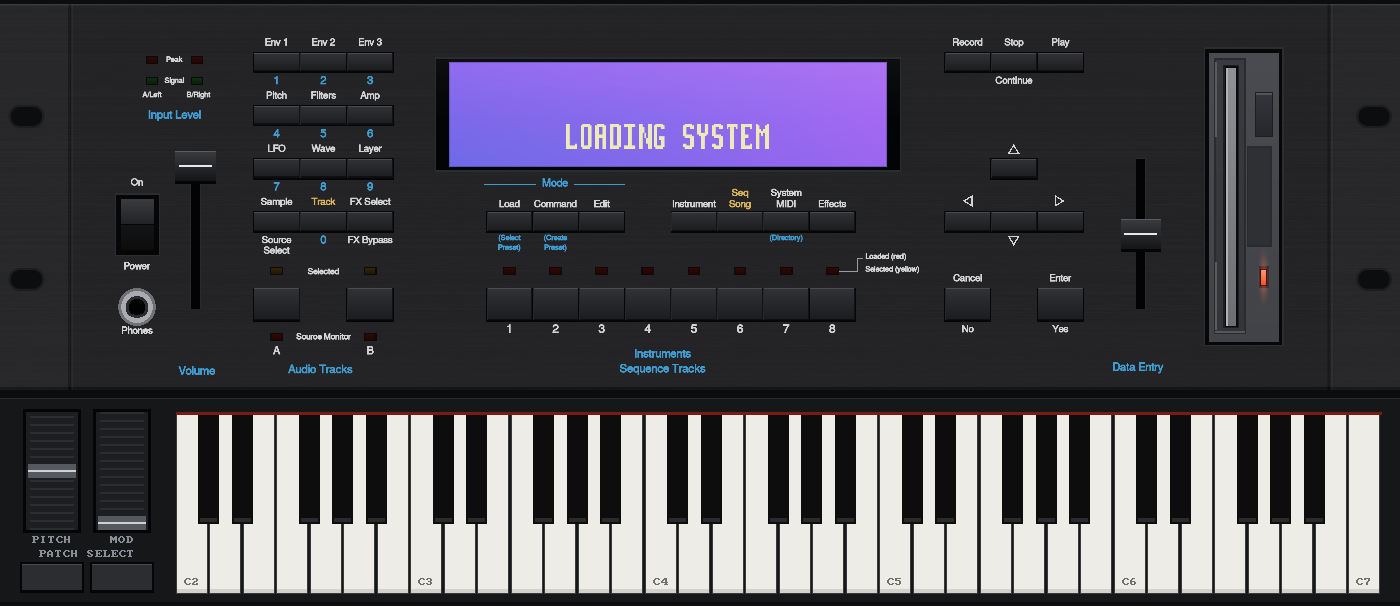
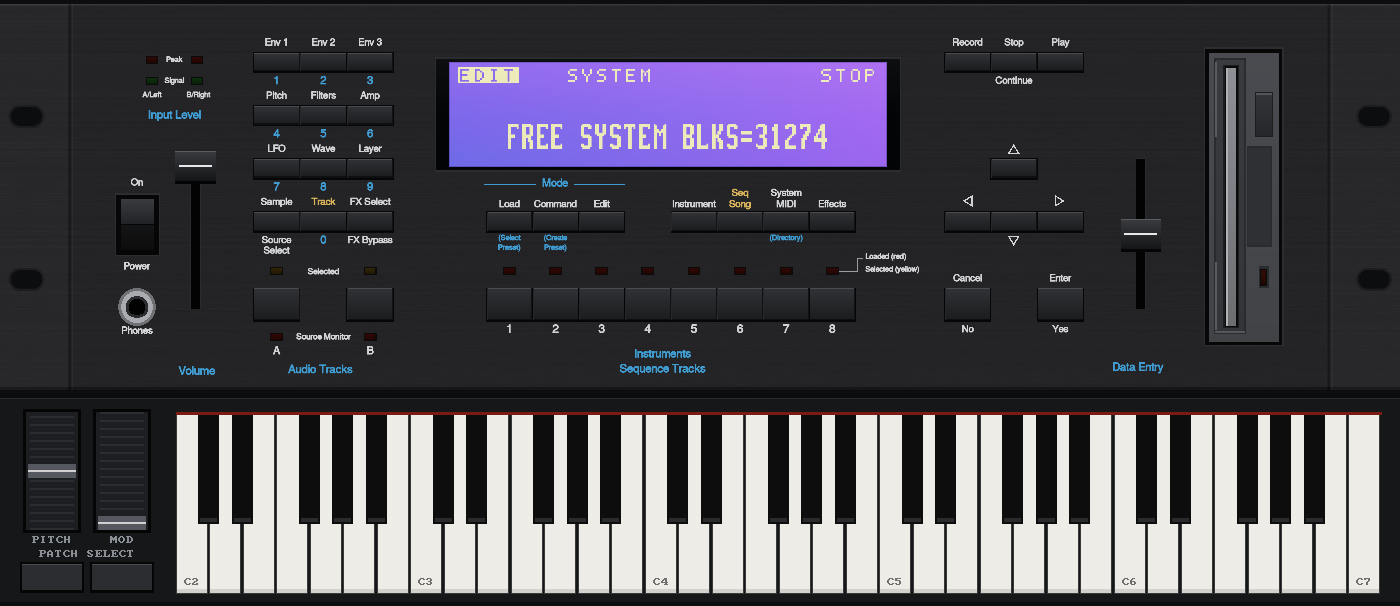
LCD: fixed legend positions, steady mode box (only its letters blink), digits with decimal point
Claude-Session: https://claude.ai/code/session_01NnKiJNDbeJ6gMPzNdptUdT

diff --git a/src/lcd.cpp b/src/lcd.cpp
@@ -40,7 +40,7 @@ constexpr uint32_t BACK_TL = 0x8d66ee, BACK_TR = 0xab6cf3, BACK_BL = 0x6e6ae7, B
 constexpr int PX_W = 240, PX_H = 58;
 constexpr float CELL = LcdRenderer::WIDTH / PX_W;       // logical px per LCD pixel
 constexpr int TEXT_X = 32, TEXT_Y = 34;                 // first text cell
-constexpr int LEG_LEFT = 5, LEG_MID = 64, LEG_RIGHT = 227, LEG_COL = 56;   // legend columns
+constexpr int LEG_LEFT = 5, LEG_RIGHT = 236;           // the mode box's left edge; right edge of the right-hand legends
 constexpr int LEG_ROW0 = 3, LEG_STEP = 11;              // legend rows
 constexpr int DU = 4;                                   // texels per LCD pixel in the textures
 
@@ -49,6 +49,14 @@ void colour(SDL_Renderer *R, uint32_t c, uint8_t a = 255) { SDL_SetRenderDrawCol
 const uint8_t *glyph(unsigned char ch) { return (ch >= 0x20 && ch < 0x60) ? FONT5X7[ch - 0x20] : FONT5X7[0]; }
 bool dot5x7(const uint8_t *g, int c, int r) { return c >= 0 && c < 5 && r >= 0 && r < 7 && (g[c] >> r & 1); }
 // the text line's pixels: 7 x 14, copied from the module (lcd_font.h; most glyphs are 6 wide)
+// the ASR sends 0.-9. (a digit with its decimal point) as ! # % ( ) : ; [ \ ]
+int dotted_digit(int code) {
+    switch (code) {
+    case '!': return 0; case '#': return 1; case '%': return 2; case '(': return 3; case ')': return 4;
+    case ':': return 5; case ';': return 6; case '[': return 7; case '\\': return 8; case ']': return 9;
+    }
+    return -1;
+}
 bool px_big(int ch, int c, int r) { return c >= 0 && c < 7 && r >= 0 && r < 14 && (LCD_BIG[ch][r] >> c & 1); }
 
 // a w x h dot matrix as a white alpha texture, DU x DU texels per dot. grid = false: solid
@@ -91,9 +99,15 @@ bool LcdRenderer::init(SDL_Renderer *r) {
     SDL_SetHint(SDL_HINT_RENDER_SCALE_QUALITY, "1");
     for (int ch = 0; ch < 64; ch++) {
         const uint8_t *g = FONT5X7[ch];
-        auto fb = [&](int c, int rr) { return px_big(ch, c, rr); };
+        std::function<bool(int, int)> fb = [&](int c, int rr) { return px_big(ch, c, rr); };
+        const int dd = dotted_digit(ch + 0x20);              // codes that are a digit with a decimal point
+        if (dd >= 0) fb = [dd](int c, int rr) {
+            if (px_big(dd + 0x10, c, rr)) return true;
+            const bool wide = dd == 4;                       // the 4 is 7 wide: its dot is one pixel narrower
+            return rr >= 12 && c >= (wide ? 7 : 6) && c < 8;
+        };
         auto fs = [&](int c, int rr) { return dot5x7(g, c, rr); };
-        big[ch] = dots_texture(R, 7, 14, fb); big_g[ch] = dots_texture(R, 7, 14, fb, true);
+        big[ch] = dots_texture(R, 8, 14, fb); big_g[ch] = dots_texture(R, 8, 14, fb, true);
         small_[ch] = dots_texture(R, 5, 7, fs); small_g[ch] = dots_texture(R, 5, 7, fs, true);
         if (!big[ch] || !small_[ch] || !big_g[ch] || !small_g[ch]) return false;
     }
@@ -116,7 +130,20 @@ bool LcdRenderer::init(SDL_Renderer *r) {
 }
 
 namespace {
-struct Leg { int idx; bool on; };
+// Every legend has one fixed place on the screen (the module never moves them). Legends that
+// share a place are never lit together, so the first one that is lit is drawn.
+struct Slot { int col, row; bool right; };
+Slot slot_of(const char *t) {
+    auto is = [&](std::initializer_list<const char *> l) { for (const char *n : l) if (!strcmp(t, n)) return true; return false; };
+    if (is({ "INST", "MIDI", "SYSTEM", "LAYER", "SEQ" })) return { 64, 0, false };
+    if (is({ "SONG" })) return { 64, 1, false };
+    if (is({ "PITCH", "FILTER", "AMP", "ENV", "LFO", "WAVE" })) return { 120, 0, false };
+    if (is({ "MACRO", "BANK" })) return { 120, 1, false };
+    if (is({ "ODUB", "REC", "PLAY", "STOP" })) return { LEG_RIGHT, 0, true };
+    if (is({ "TRACK", "BAR", "BEAT", "CLOCK" })) return { LEG_RIGHT, 1, true };
+    if (is({ "STEP" })) return { LEG_RIGHT - 56, 0, true };
+    return { LEG_RIGHT - 56, 1, true };                       // REP
+}
 }
 
 void LcdRenderer::draw(const Panel &p, float x, float y, uint32_t ticks, float s) {
@@ -141,17 +168,20 @@ void LcdRenderer::draw(const Panel &p, float x, float y, uint32_t ticks, float s
     // The mode legend of the first column (LOAD / CMD / EDIT) is inverted at the top left. The
     // other lit legends of the left group are stacked in two rows from pixel 64; those of the
     // right group (ENV ... STOP, AMP ... CLOCK) likewise from the right edge.
-    std::vector<Leg> left, right;
-    int mode = -1; bool mode_on = false;
+    int mode = -1, mode_st = 0;
     const int n = (int)(sizeof(VFD_LEGENDS) / sizeof(VFD_LEGENDS[0]));
+    struct Placed { int idx; Slot sl; int st; };
+    std::vector<Placed> placed;
     for (int i = 0; i < n; i++) {
         const VfdLegend &l = VFD_LEGENDS[i];
         int st = (l.group == 0 ? p.ind2 : p.ind3)[l.index & 15] % 3;
         if (!st) continue;
-        bool on = st == 1 || blink;
         bool first_col = l.group == 0 && (i % 5) == 0;      // LOAD, CMD, EDIT
-        if (first_col) { mode = i; mode_on = on; }
-        else (l.group == 0 ? left : right).push_back({ i, on });
+        if (first_col) { mode = i; mode_st = st; continue; }
+        Slot sl = slot_of(l.text);
+        bool taken = false;
+        for (const Placed &q : placed) if (q.sl.col == sl.col && q.sl.row == sl.row && q.sl.right == sl.right) taken = true;
+        if (!taken) placed.push_back({ i, sl, st });
     }
     const float u = CELL * s;                               // one LCD pixel on screen
     // the pixel grid (gaps between the lit pixels) only shows when the pixels are big on the real screen
@@ -165,13 +195,14 @@ void LcdRenderer::draw(const Panel &p, float x, float y, uint32_t ticks, float s
         }
     };
     auto legend_w = [&](const char *t) { return (float)(strlen(t) * 8 + 1) * u; };
-    auto draw_legend = [&](int idx, float px, int row, bool inverted) {   // px = left edge in LCD pixels
+    auto draw_legend = [&](int idx, float px, int row, bool inverted, bool letters) {   // px = left edge in LCD pixels
         const char *t = VFD_LEGENDS[idx].text;
         const float lx = x + px * u, ly = y + (float)(LEG_ROW0 + LEG_STEP * row) * u;
         if (inverted) {
             SDL_FRect d{ lx, ly, legend_w(t), 9 * u };
             blit(inv[idx], inv_g[idx], d);
-        } else {
+        }
+        if (!inverted || !letters) {
             for (size_t i = 0; t[i]; i++) {
                 unsigned char ch = (unsigned char)t[i];
                 int gi = (ch >= 0x20 && ch < 0x60) ? ch - 0x20 : 0;
@@ -180,14 +211,14 @@ void LcdRenderer::draw(const Panel &p, float x, float y, uint32_t ticks, float s
             }
         }
     };
-    if (mode >= 0 && mode_on) draw_legend(mode, (float)LEG_LEFT, 0, true);
-    for (size_t k = 0; k < left.size(); k++)
-        if (left[k].on) draw_legend(left[k].idx, (float)(LEG_MID + LEG_COL * (int)(k / 2)), (int)(k % 2), false);
-    for (size_t k = 0; k < right.size(); k++)
-        if (right[k].on) {
-            float w = legend_w(VFD_LEGENDS[right[k].idx].text) / u;
-            draw_legend(right[k].idx, (float)(LEG_RIGHT - LEG_COL * (int)(k / 2)) - w, (int)(k % 2), false);
-        }
+    // the mode box never moves or goes out; only its letters blink (cut out when on, filled in when off)
+    if (mode >= 0) draw_legend(mode, (float)LEG_LEFT, 0, true, mode_st == 1 || blink);
+    for (const Placed &q : placed) {
+        if (!(q.st == 1 || blink)) continue;
+        float px = (float)q.sl.col;
+        if (q.sl.right) px -= legend_w(VFD_LEGENDS[q.idx].text) / u;
+        draw_legend(q.idx, px, q.sl.row, false, true);
+    }
 
     // ---- the text line
     for (int i = 0; i < Panel::COLS; i++) {
@@ -196,7 +227,7 @@ void LcdRenderer::draw(const Panel &p, float x, float y, uint32_t ticks, float s
         SDL_Texture *tx = nullptr, *tg = nullptr;
         if (ch == ' ' && i < p.meter) { tx = meter; tg = meter_g; }          // level meter: a lit bar
         else if (ch > ' ' && ch < 0x60) { tx = big[ch - 0x20]; tg = big_g[ch - 0x20]; }
-        if (tx) blit(tx, tg, SDL_FRect{ cx, cy, (tx == meter ? 6 : 7) * u, 14 * u });
+        if (tx) blit(tx, tg, SDL_FRect{ cx, cy, (tx == meter ? 6 : 8) * u, 14 * u });
         if (p.attr[i] & 3) blit(underline, underline_g, SDL_FRect{ cx, cy + 16 * u, 6 * u, 2 * u });   // underline / edit cursor
     }
     SDL_SetRenderDrawBlendMode(R, old);
